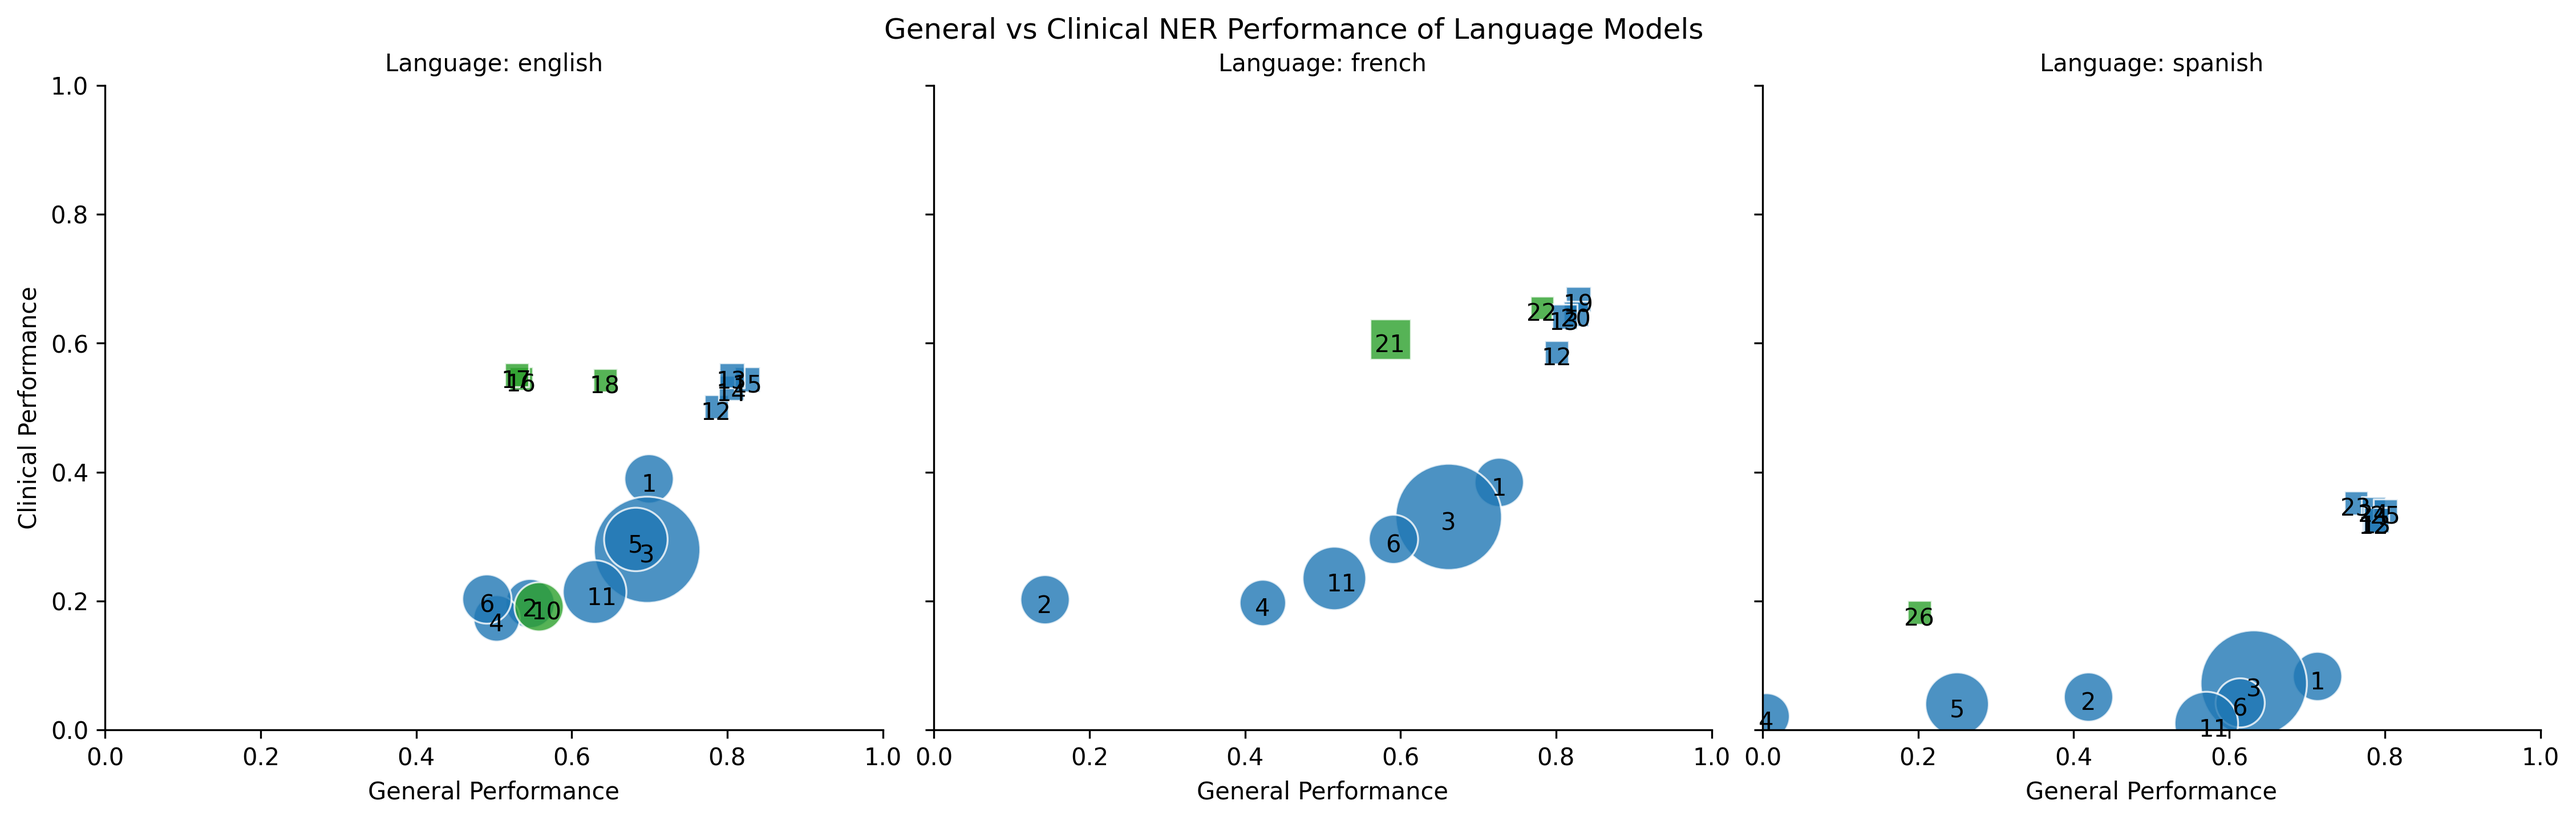
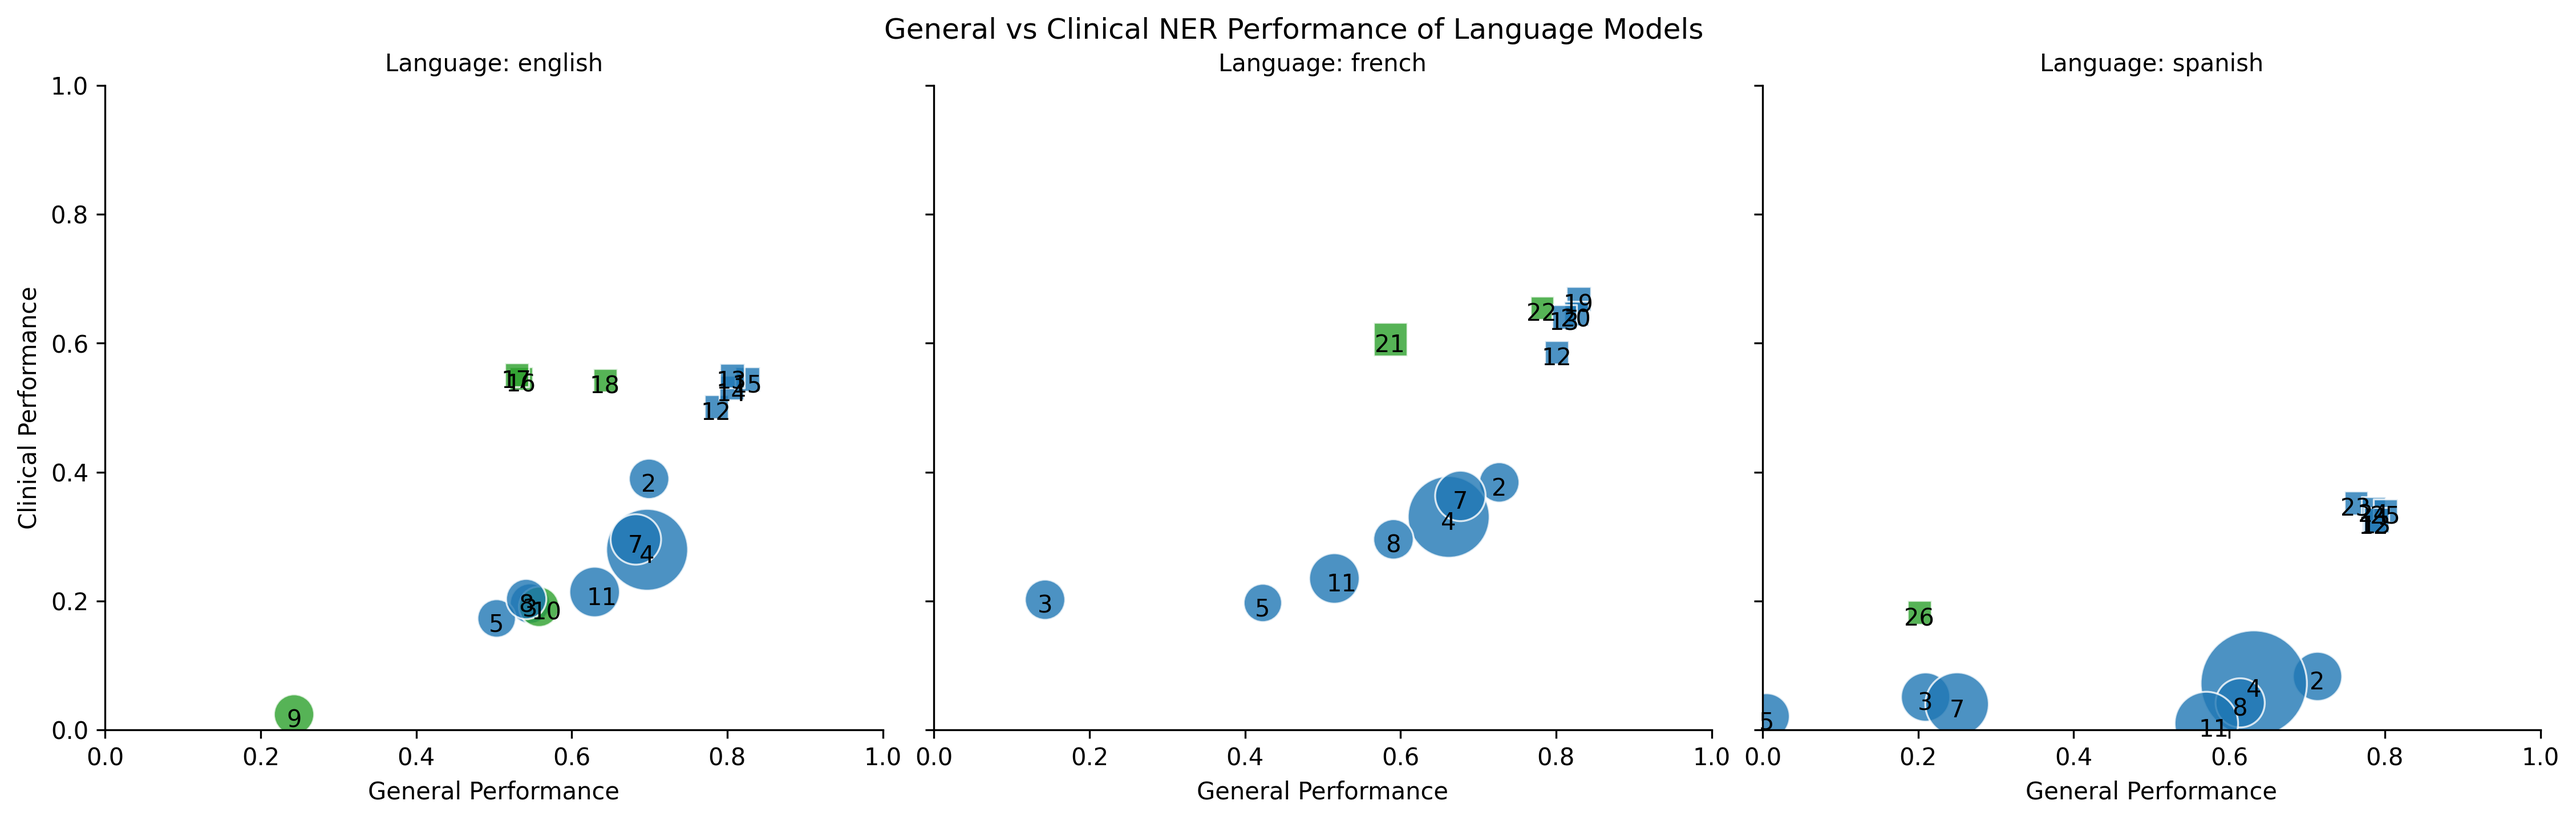
res

diff --git a/result_tabs_and_plots/results_table.tex b/result_tabs_and_plots/results_table.tex
@@ -6,15 +6,15 @@
 \midrule
 \multicolumn{16}{l}{\textit{Few-shot approaches}} \\
 \midrule
-\multirow{11}{*}{\rotatebox[origin=c]{90}{Causal}} & 1- Mistral-7B & 0.754 & 0.645 & 0.488 & 0.291 & - & 0.727 & - & 0.59 & 0.229 & 0.333 & 0.72 & 0.707 & 0.083 & - \\
- & 2- BLOOM-7B1 & 0.524 & 0.569 & 0.279 & 0.113 & - & 0.143 & - & 0.32 & 0.166 & 0.12 & - & 0.419 & 0.051 & - \\
- & 3- Falcon-40B & 0.686 & 0.708 & 0.28 & 0.279 & - & 0.662 & - & 0.378 & - & 0.283 & 0.72 & 0.543 & 0.072 & - \\
- & 4- GPT-J-6B & 0.521 & 0.486 & 0.167 & 0.179 & - & 0.423 & - & 0.334 & 0.08 & 0.177 & 0.005 & - & 0.021 & - \\
- & 5- Vicuna-13B & 0.657 & 0.708 & 0.355 & 0.236 & - & - & - & 0.4 & - & 0.326 & - & 0.25 & 0.04 & - \\
- & 6- Vicuna-7B & 0.594 & 0.388 & 0.259 & 0.147 & - & 0.591 & - & 0.439 & 0.152 & 0.296 & 0.659 & 0.569 & 0.042 & - \\
- & 7- OPT-66B & - & - & - & - & - & - & - & - & - & - & - & - & - & - \\
- & 8- LLAMA-70B & - & - & - & - & - & - & - & - & - & - & - & - & - & - \\
- & 9- BioMedLM & - & 0.243 & - & - & - & - & - & - & - & - & - & - & - & - \\
+\multirow{11}{*}{\rotatebox[origin=c]{90}{Causal}} & 1- LLAMA-70B & - & 0.721 & - & - & - & - & - & - & 0.201 & 0.312 & - & - & - & - \\
+ & 2- Mistral-7B & 0.754 & 0.645 & 0.488 & 0.291 & - & 0.727 & - & 0.59 & 0.229 & 0.333 & 0.72 & 0.707 & 0.083 & - \\
+ & 3- BLOOM-7B1 & 0.524 & 0.569 & 0.279 & 0.113 & - & 0.143 & - & 0.32 & 0.166 & 0.12 & 0.0 & 0.419 & 0.051 & - \\
+ & 4- Falcon-40B & 0.686 & 0.708 & 0.28 & 0.279 & - & 0.662 & - & 0.378 & - & 0.283 & 0.72 & 0.543 & 0.072 & - \\
+ & 5- GPT-J-6B & 0.521 & 0.486 & 0.167 & 0.179 & - & 0.423 & - & 0.334 & 0.08 & 0.177 & 0.005 & - & 0.021 & - \\
+ & 6- OPT-66B & - & 0.495 & - & - & - & - & - & - & 0.206 & - & - & - & - & - \\
+ & 7- Vicuna-13B & 0.657 & 0.708 & 0.355 & 0.236 & - & 0.677 & - & 0.4 & - & 0.326 & - & 0.25 & 0.04 & - \\
+ & 8- Vicuna-7B & 0.594 & 0.489 & 0.259 & 0.147 & - & 0.591 & - & 0.439 & 0.152 & 0.296 & 0.659 & 0.569 & 0.042 & - \\
+ & 9- BioMedLM & - & 0.243 & 0.024 & - & - & - & - & - & - & 0.019 & - & - & - & - \\
  & 10- Medalpaca-7B & - & 0.558 & - & 0.191 & - & - & - & - & 0.161 & 0.224 & - & - & - & - \\
  & 11- Vigogne-13B & 0.593 & 0.666 & 0.252 & 0.176 & - & 0.515 & - & 0.464 & 0.099 & 0.142 & 0.58 & 0.561 & 0.01 & - \\
 \midrule
